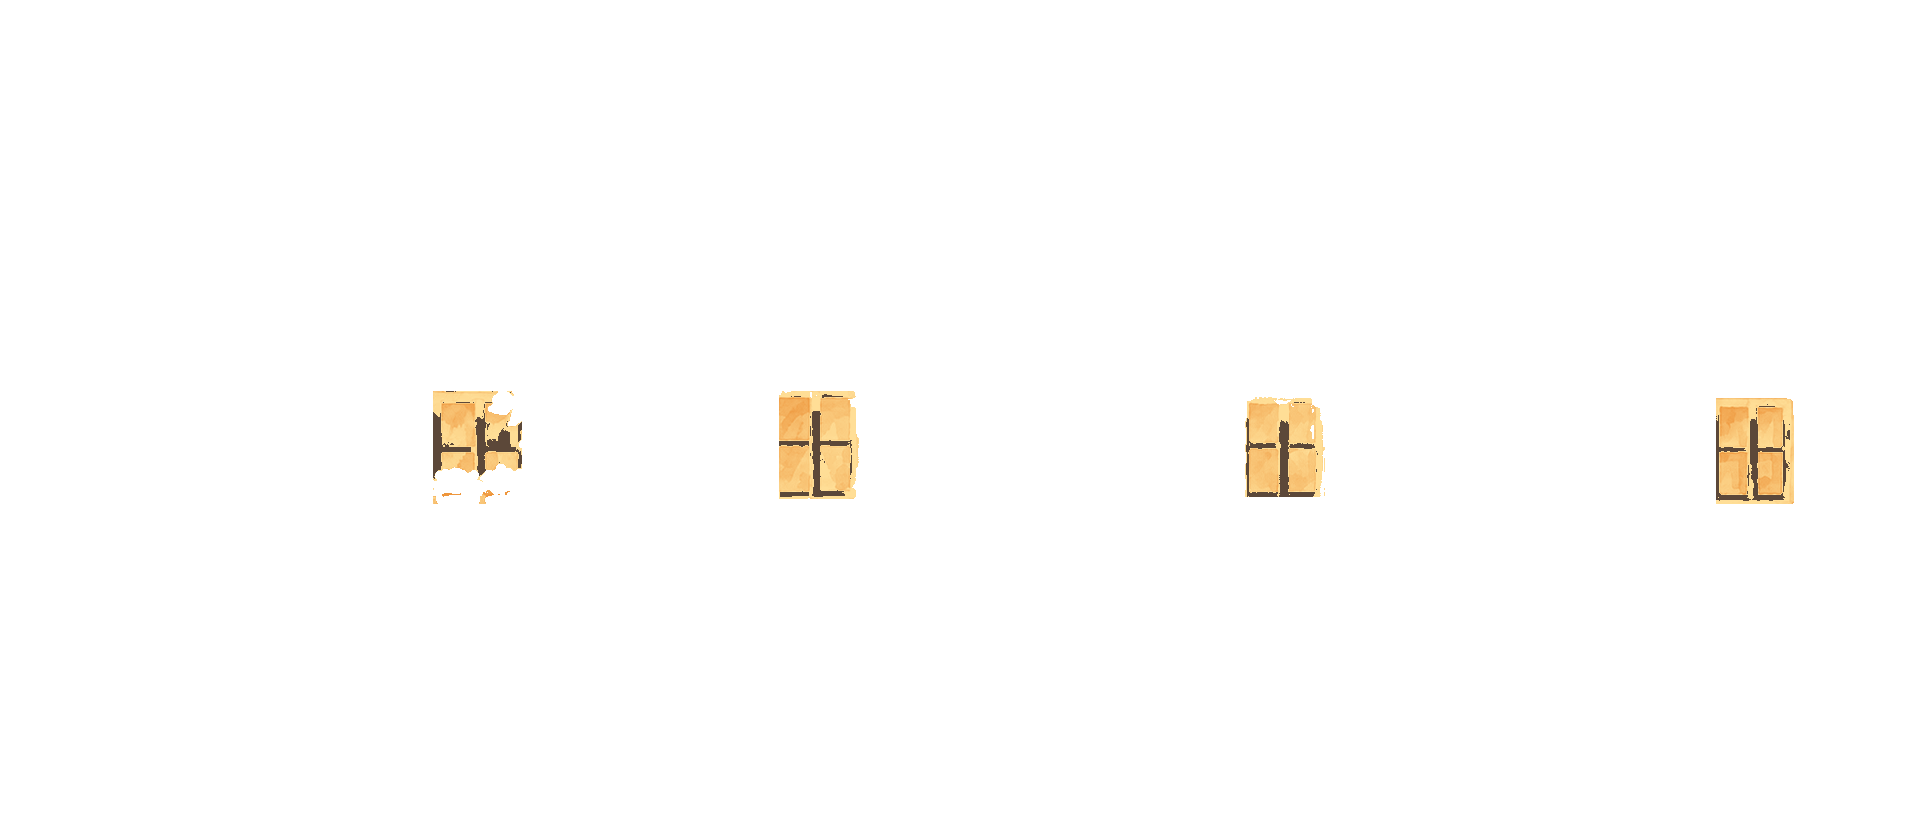
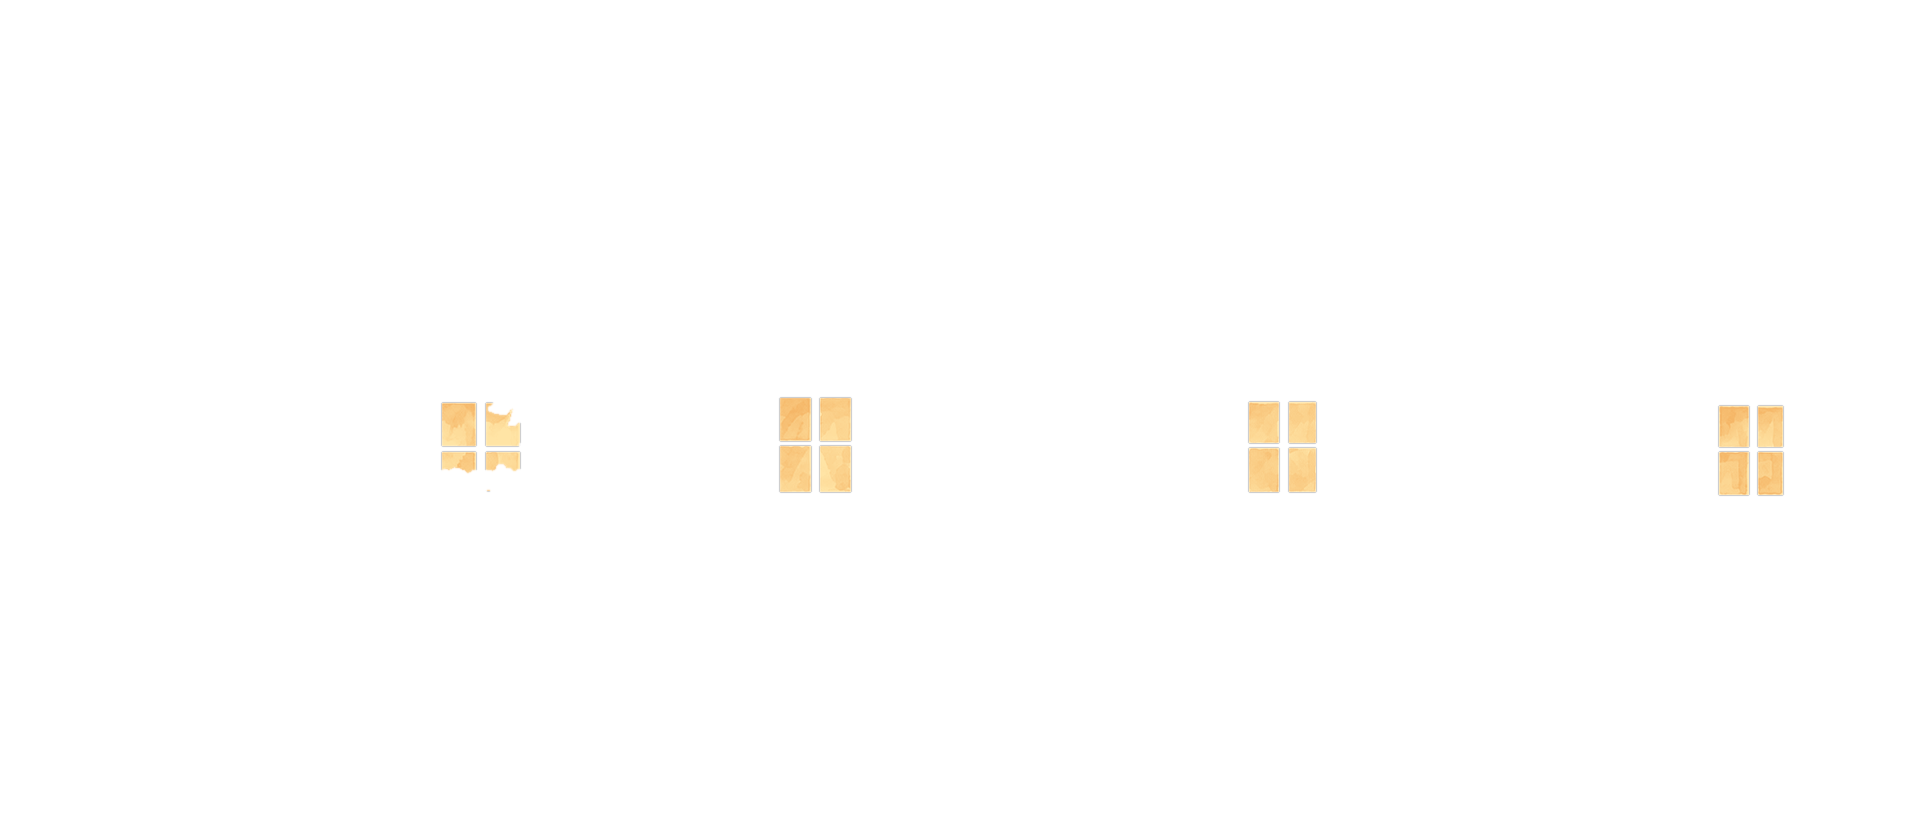
Night: light only the window panes, keep frames and crossbars
lit_windows() now lights measured pane rectangles (PANES) with the
glass's own brush texture, instead of classifying every pixel in a
rough box - which lit the white frames and drew blocky brown bars.
Leaves and flowers stay dark only on the blue house window.
lights-windows.png rebuilt; its URL gets ?v=2 so browsers refetch it.

diff --git a/index.html b/index.html
@@ -57,7 +57,7 @@
         <div class="picture">
           <img class="layer day"   src="assets/village-day.webp"   alt="Three whitewashed Portuguese houses with blue, yellow and coral trim, an orange tree and bougainvillea" width="1926" height="817">
           <img class="layer night" src="assets/village-night.webp" alt="" aria-hidden="true" width="1926" height="817">
-          <img class="layer lit"   src="assets/lights-windows.png" alt="" aria-hidden="true" width="1926" height="817">
+          <img class="layer lit"   src="assets/lights-windows.png?v=2" alt="" aria-hidden="true" width="1926" height="817">
 
           <div class="glow" style="--x:433;--y:391;--w:89;--h:113" aria-hidden="true"></div>
           <div class="glow" style="--x:779;--y:391;--w:80;--h:108" aria-hidden="true"></div>

diff --git a/accommodation.html b/accommodation.html
@@ -131,7 +131,7 @@
       <span class="street-band" aria-hidden="true">
         <img class="day" src="assets/village-day.webp" alt="" width="1926" height="817" loading="lazy">
         <img class="night" src="assets/village-night.webp" alt="" width="1926" height="817" loading="lazy">
-        <img class="lit" src="assets/lights-windows.png" alt="" width="1926" height="817" loading="lazy">
+        <img class="lit" src="assets/lights-windows.png?v=2" alt="" width="1926" height="817" loading="lazy">
       </span>
       <span class="sc">Back to the village</span>
     </a>

diff --git a/location.html b/location.html
@@ -203,7 +203,7 @@
       <span class="street-band" aria-hidden="true">
         <img class="day" src="assets/village-day.webp" alt="" width="1926" height="817" loading="lazy">
         <img class="night" src="assets/village-night.webp" alt="" width="1926" height="817" loading="lazy">
-        <img class="lit" src="assets/lights-windows.png" alt="" width="1926" height="817" loading="lazy">
+        <img class="lit" src="assets/lights-windows.png?v=2" alt="" width="1926" height="817" loading="lazy">
       </span>
       <span class="sc">Back to the village</span>
     </a>

diff --git a/travel.html b/travel.html
@@ -103,7 +103,7 @@
       <span class="street-band" aria-hidden="true">
         <img class="day" src="assets/village-day.webp" alt="" width="1926" height="817" loading="lazy">
         <img class="night" src="assets/village-night.webp" alt="" width="1926" height="817" loading="lazy">
-        <img class="lit" src="assets/lights-windows.png" alt="" width="1926" height="817" loading="lazy">
+        <img class="lit" src="assets/lights-windows.png?v=2" alt="" width="1926" height="817" loading="lazy">
       </span>
       <span class="sc">Back to the village</span>
     </a>

diff --git a/map.html b/map.html
@@ -61,7 +61,7 @@
       <span class="street-band" aria-hidden="true">
         <img class="day" src="assets/village-day.webp" alt="" width="1926" height="817" loading="lazy">
         <img class="night" src="assets/village-night.webp" alt="" width="1926" height="817" loading="lazy">
-        <img class="lit" src="assets/lights-windows.png" alt="" width="1926" height="817" loading="lazy">
+        <img class="lit" src="assets/lights-windows.png?v=2" alt="" width="1926" height="817" loading="lazy">
       </span>
       <span class="sc">Back to the village</span>
     </a>

diff --git a/program.html b/program.html
@@ -87,7 +87,7 @@
       <span class="street-band" aria-hidden="true">
         <img class="day" src="assets/village-day.webp" alt="" width="1926" height="817" loading="lazy">
         <img class="night" src="assets/village-night.webp" alt="" width="1926" height="817" loading="lazy">
-        <img class="lit" src="assets/lights-windows.png" alt="" width="1926" height="817" loading="lazy">
+        <img class="lit" src="assets/lights-windows.png?v=2" alt="" width="1926" height="817" loading="lazy">
       </span>
       <span class="sc">Back to the village</span>
     </a>

diff --git a/rsvp.html b/rsvp.html
@@ -57,7 +57,7 @@
       <span class="street-band" aria-hidden="true">
         <img class="day" src="assets/village-day.webp" alt="" width="1926" height="817" loading="lazy">
         <img class="night" src="assets/village-night.webp" alt="" width="1926" height="817" loading="lazy">
-        <img class="lit" src="assets/lights-windows.png" alt="" width="1926" height="817" loading="lazy">
+        <img class="lit" src="assets/lights-windows.png?v=2" alt="" width="1926" height="817" loading="lazy">
       </span>
       <span class="sc">Back to the village</span>
     </a>

diff --git a/weather.html b/weather.html
@@ -84,7 +84,7 @@
       <span class="street-band" aria-hidden="true">
         <img class="day" src="assets/village-day.webp" alt="" width="1926" height="817" loading="lazy">
         <img class="night" src="assets/village-night.webp" alt="" width="1926" height="817" loading="lazy">
-        <img class="lit" src="assets/lights-windows.png" alt="" width="1926" height="817" loading="lazy">
+        <img class="lit" src="assets/lights-windows.png?v=2" alt="" width="1926" height="817" loading="lazy">
       </span>
       <span class="sc">Back to the village</span>
     </a>

diff --git a/tools/make_layers.py b/tools/make_layers.py
@@ -19,16 +19,26 @@ import numpy as np
 from PIL import Image, ImageDraw, ImageFilter
 
 NIGHT_TINT = np.array([0.24, 0.29, 0.48])
-WARM_HI = np.array([255, 222, 150])
-WARM_LO = np.array([238, 150, 60])
-MULLION = np.array([74, 52, 36])
+WARM_HI = np.array([255, 228, 165])
+WARM_LO = np.array([240, 158, 70])
 
-# Window glass rectangles in the village picture (x0, y0, x1, y1)
+# Window glass rectangles in the village picture (x0, y0, x1, y1), used for the
+# warm glow around each window (index.html .glow)
 WINDOWS = [
     (433, 391, 522, 504),    # blue house
     (779, 391, 859, 499),    # yellow house, left
     (1241, 391, 1325, 497),  # yellow house, right
     (1716, 398, 1794, 504),  # coral house
+]
+
+# The four glass panes of each window (x0, y0, x1, y1, inclusive), measured on
+# the painting. Only these are lit at night; the painted frames and crossbars
+# stay as they are, so the windows keep their shape.
+PANES = [
+    (442, 403, 475, 445), (486, 403, 519, 445), (442, 452, 475, 490), (486, 452, 519, 490),
+    (780, 398, 810, 440), (820, 398, 850, 440), (780, 446, 810, 491), (820, 446, 850, 491),
+    (1249, 402, 1278, 442), (1289, 402, 1315, 442), (1249, 448, 1278, 491), (1289, 448, 1315, 491),
+    (1719, 406, 1748, 446), (1758, 406, 1782, 446), (1719, 452, 1748, 494), (1758, 452, 1782, 494),
 ]
 
 
@@ -65,21 +75,27 @@ def rgba(colour, alpha):
 
 
 def lit_windows(rgb):
+    """Warm light in the glass panes. The painted brush strokes in the glass
+    become lighter and deeper amber, so the light keeps the watercolour feel.
+    The orange tree's leaves and the flower pots in front of the blue house
+    window stay dark."""
     h, w, _ = rgb.shape
-    out = np.zeros((h, w, 4), np.uint8)
-    for x0, y0, x1, y1 in WINDOWS:
-        win = rgb[y0:y1, x0:x1]
+    col = np.zeros((h, w, 3))
+    alpha = np.zeros((h, w))
+    for x0, y0, x1, y1 in PANES:
+        win = rgb[y0:y1 + 1, x0:x1 + 1]
         lum = win @ np.array([.299, .587, .114])
         sat = win.max(-1) - win.min(-1)
         r, g, b = win[..., 0], win[..., 1], win[..., 2]
-        glass = ~(((r > b + 30) & (sat > 50)) | ((g > b + 35) & (sat > 60)))   # skip pots, flowers, leaves
-        bars = glass & (lum > 225) & (sat < 18)
-        t = np.clip((lum - 40) / 170, 0, 1)[..., None]
-        col = WARM_LO + (WARM_HI - WARM_LO) * t
-        col[bars] = MULLION
-        out[y0:y1, x0:x1, :3] = col.astype(np.uint8)
-        out[y0:y1, x0:x1, 3] = np.where(bars, 230, np.where(glass, 255, 0))
-    return Image.fromarray(out, "RGBA")
+        foliage = ((r > b + 30) & (sat > 50)) | ((g > b + 35) & (sat > 60))
+        foliage &= x0 < 600                  # only the blue house has a tree and flowers in front
+        t = .35 + .65 * np.clip((lum - 70) / 150, 0, 1)
+        col[y0:y1 + 1, x0:x1 + 1] = WARM_LO + (WARM_HI - WARM_LO) * t[..., None]
+        alpha[y0:y1 + 1, x0:x1 + 1] = np.where(foliage, 0, 255)
+    a = Image.fromarray(alpha.astype(np.uint8), "L").filter(ImageFilter.GaussianBlur(.7))
+    out = Image.fromarray(col.round().astype(np.uint8), "RGB")
+    out.putalpha(a)
+    return out
 
 
 def lamp_layers():

diff --git a/tools/make_pages.py b/tools/make_pages.py
@@ -436,7 +436,7 @@ def street(slug):
       <span class="street-band" aria-hidden="true">
         <img class="day" src="assets/village-day.webp" alt="" width="1926" height="817" loading="lazy">
         <img class="night" src="assets/village-night.webp" alt="" width="1926" height="817" loading="lazy">
-        <img class="lit" src="assets/lights-windows.png" alt="" width="1926" height="817" loading="lazy">
+        <img class="lit" src="assets/lights-windows.png?v=2" alt="" width="1926" height="817" loading="lazy">
       </span>
       <span class="sc">Back to the village</span>
     </a>

diff --git a/CHANGELOG.md b/CHANGELOG.md
@@ -5,6 +5,9 @@ Newest first. Dates are when the change was made; "Unreleased" is not pushed to 
 
 ## Unreleased (redesign branch)
 
+### Fixed
+- **Lit windows at night look clean again:** only the glass panes glow now, measured pane by pane on the painting, so the white frames and crossbars stay crisp instead of being covered by ragged yellow and heavy brown bars. The brush strokes in the glass still show through the light.
+
 ### Added
 - **Handwritten notes for things still to come:** the grey "coming soon" boxes on Program and RSVP are now paper notes taped onto the page, written in script in the section's colour ("The welcome party is still being planned – time and place coming soon."). On the home page the empty story-map frame is replaced by a note too ("Our story map is still being drawn – Marek is on it."); the full frame comes back as soon as the StoryMap link is filled in.
 - **The street continues:** every inner page (and the guest map) now ends with the previous and next door – the neighbouring pages' titles in their own colours – and a strip of the village painting that takes you back home, lit windows and all at night. No more dead ends after the last paragraph.
